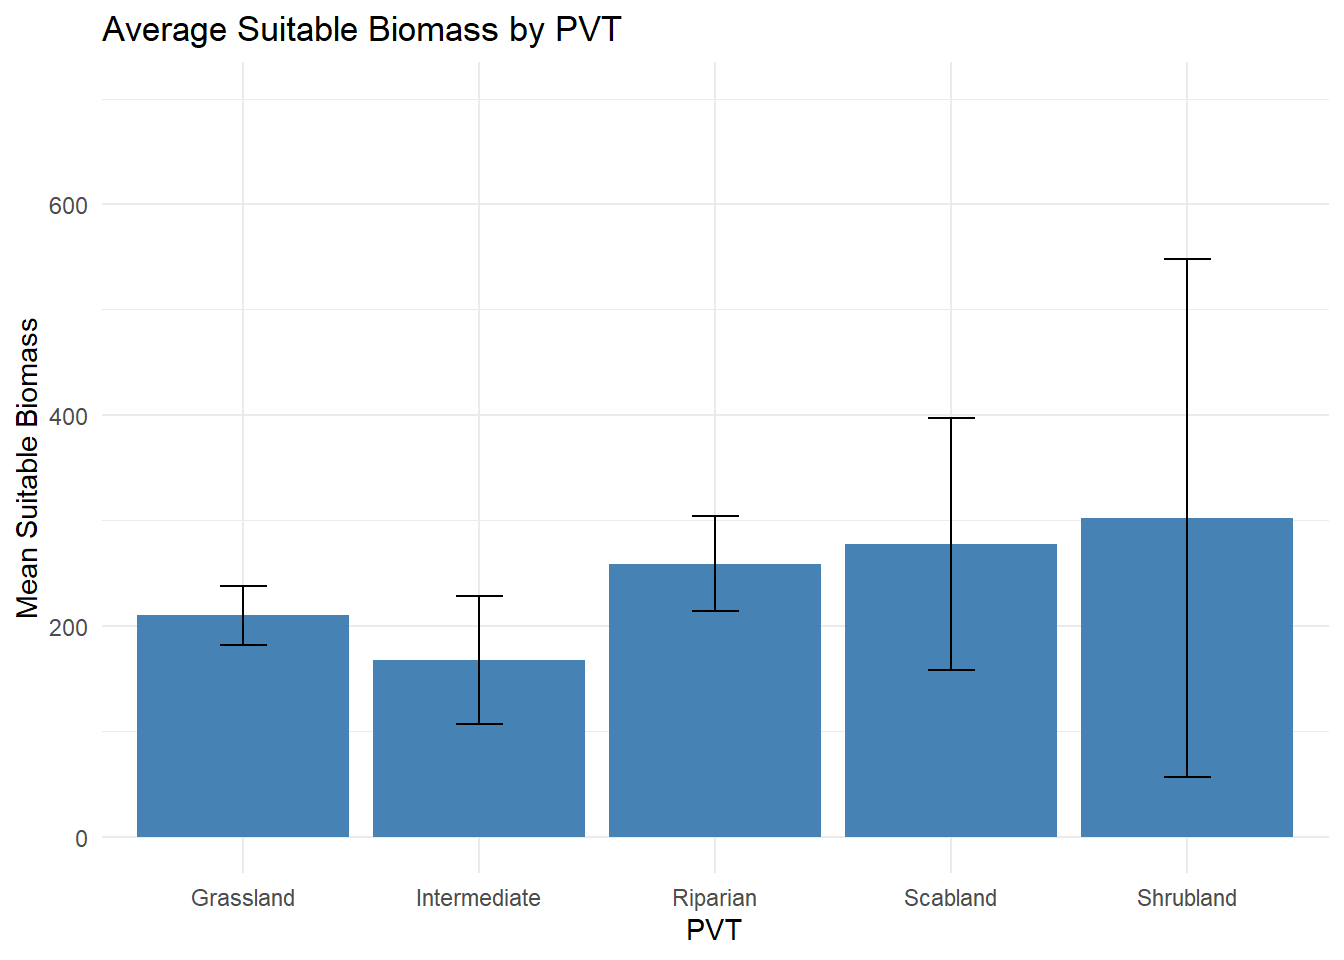
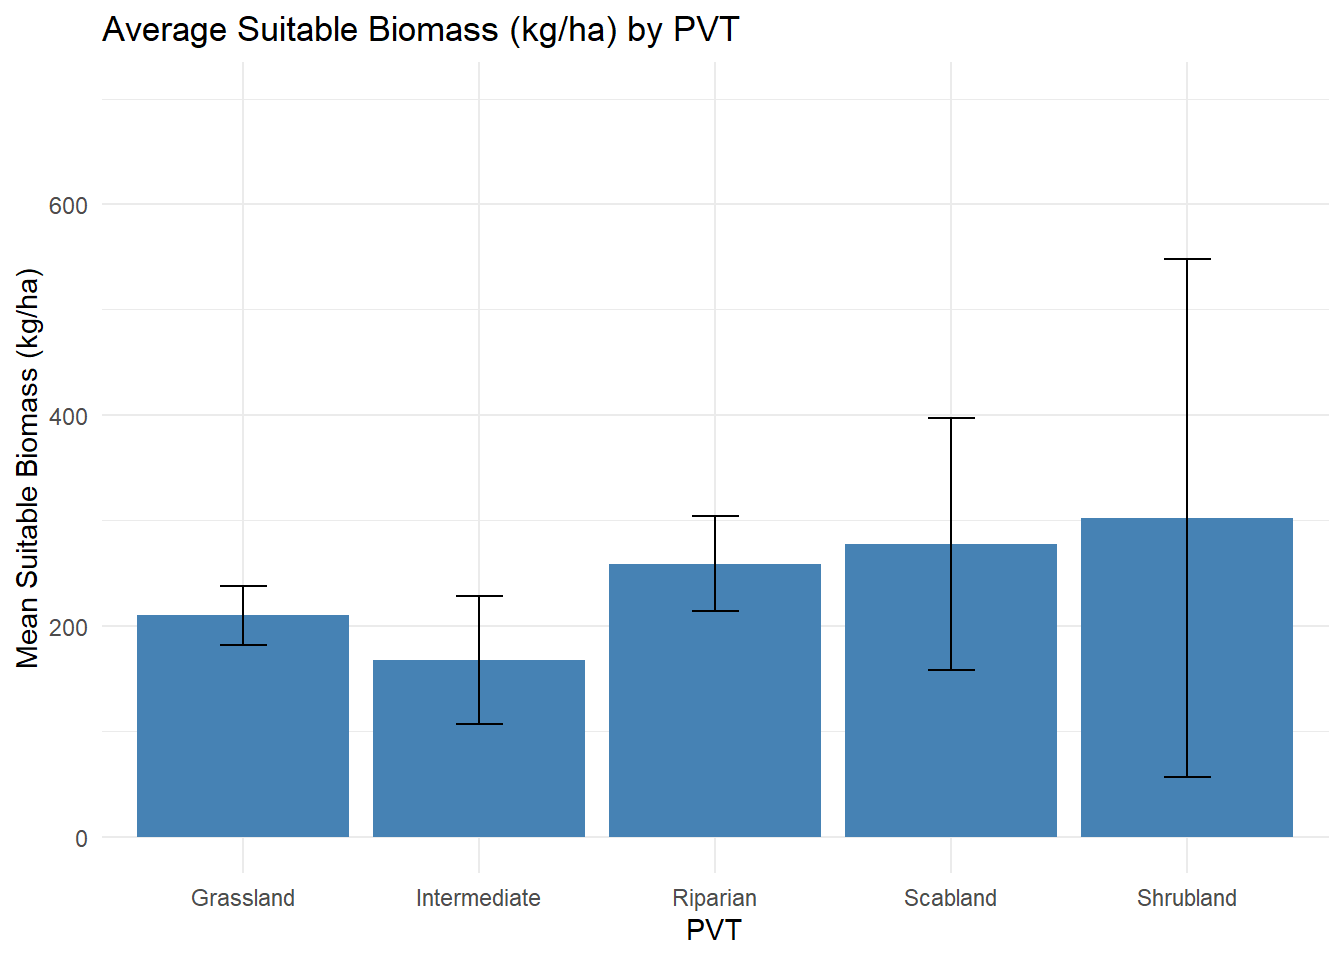
added units to axis

Changed region(s): [[0.0, 0.2812, 0.0312, 0.6875], [0.375, 0.0, 0.5625, 0.0625]]

diff --git a/docs/posts/post-with-code/suitable.biomass.plots.html b/docs/posts/post-with-code/suitable.biomass.plots.html
@@ -232,7 +232,7 @@ pre > code.sourceCode > span > a:first-child::before { text-decoration: underlin
 <span id="cb4-9"><a href="#cb4-9" aria-hidden="true" tabindex="-1"></a>  <span class="fu">scale_y_continuous</span>(<span class="at">limits =</span> <span class="fu">c</span>(<span class="dv">0</span>, <span class="dv">1000</span>)) <span class="sc">+</span></span>
 <span id="cb4-10"><a href="#cb4-10" aria-hidden="true" tabindex="-1"></a>  <span class="fu">theme_minimal</span>() <span class="sc">+</span></span>
 <span id="cb4-11"><a href="#cb4-11" aria-hidden="true" tabindex="-1"></a>  <span class="fu">labs</span>(</span>
-<span id="cb4-12"><a href="#cb4-12" aria-hidden="true" tabindex="-1"></a>    <span class="at">title =</span> <span class="st">"Suitable Biomass Over Time by PVT"</span>,</span>
+<span id="cb4-12"><a href="#cb4-12" aria-hidden="true" tabindex="-1"></a>    <span class="at">title =</span> <span class="st">"Suitable Biomass (kg/ha) Over Time by PVT"</span>,</span>
 <span id="cb4-13"><a href="#cb4-13" aria-hidden="true" tabindex="-1"></a>    <span class="at">x =</span> <span class="st">"Date"</span>,</span>
 <span id="cb4-14"><a href="#cb4-14" aria-hidden="true" tabindex="-1"></a>    <span class="at">y =</span> <span class="st">"Suitable Biomass"</span></span>
 <span id="cb4-15"><a href="#cb4-15" aria-hidden="true" tabindex="-1"></a>  )</span></code><button title="Copy to Clipboard" class="code-copy-button"><i class="bi"></i></button></pre></div>
@@ -323,9 +323,9 @@ pre > code.sourceCode > span > a:first-child::before { text-decoration: underlin
 <span id="cb7-13"><a href="#cb7-13" aria-hidden="true" tabindex="-1"></a>  <span class="fu">scale_y_continuous</span>(<span class="at">limits =</span> <span class="fu">c</span>(<span class="dv">0</span>, <span class="dv">700</span>)) <span class="sc">+</span></span>
 <span id="cb7-14"><a href="#cb7-14" aria-hidden="true" tabindex="-1"></a>  <span class="fu">theme_minimal</span>() <span class="sc">+</span></span>
 <span id="cb7-15"><a href="#cb7-15" aria-hidden="true" tabindex="-1"></a>  <span class="fu">labs</span>(</span>
-<span id="cb7-16"><a href="#cb7-16" aria-hidden="true" tabindex="-1"></a>    <span class="at">title =</span> <span class="st">"Average Suitable Biomass by PVT"</span>,</span>
+<span id="cb7-16"><a href="#cb7-16" aria-hidden="true" tabindex="-1"></a>    <span class="at">title =</span> <span class="st">"Average Suitable Biomass (kg/ha) by PVT"</span>,</span>
 <span id="cb7-17"><a href="#cb7-17" aria-hidden="true" tabindex="-1"></a>    <span class="at">x =</span> <span class="st">"PVT"</span>,</span>
-<span id="cb7-18"><a href="#cb7-18" aria-hidden="true" tabindex="-1"></a>    <span class="at">y =</span> <span class="st">"Mean Suitable Biomass"</span></span>
+<span id="cb7-18"><a href="#cb7-18" aria-hidden="true" tabindex="-1"></a>    <span class="at">y =</span> <span class="st">"Mean Suitable Biomass (kg/ha)"</span></span>
 <span id="cb7-19"><a href="#cb7-19" aria-hidden="true" tabindex="-1"></a>  )</span></code><button title="Copy to Clipboard" class="code-copy-button"><i class="bi"></i></button></pre></div>
 </details>
 <div class="cell-output-display">

diff --git a/docs/index.html b/docs/index.html
@@ -206,7 +206,7 @@ window.Quarto = {
 
 <div class="quarto-listing quarto-listing-container-default" id="listing-listing">
 <div class="list quarto-listing-default">
-<div class="quarto-post image-right" data-index="0" data-listing-file-modified-sort="1764980302105" data-listing-reading-time-sort="4" data-listing-word-count-sort="720">
+<div class="quarto-post image-right" data-index="0" data-listing-file-modified-sort="1764982267275" data-listing-reading-time-sort="4" data-listing-word-count-sort="723">
 <div class="thumbnail"><a href="./posts/post-with-code/suitable.biomass.plots.html" class="no-external">
 
 <p class="card-img-top"><img src="posts\post-with-code\suitable.biomass.plots_files\figure-html\unnamed-chunk-2-1.png"  class="thumbnail-image card-img"/></p>
